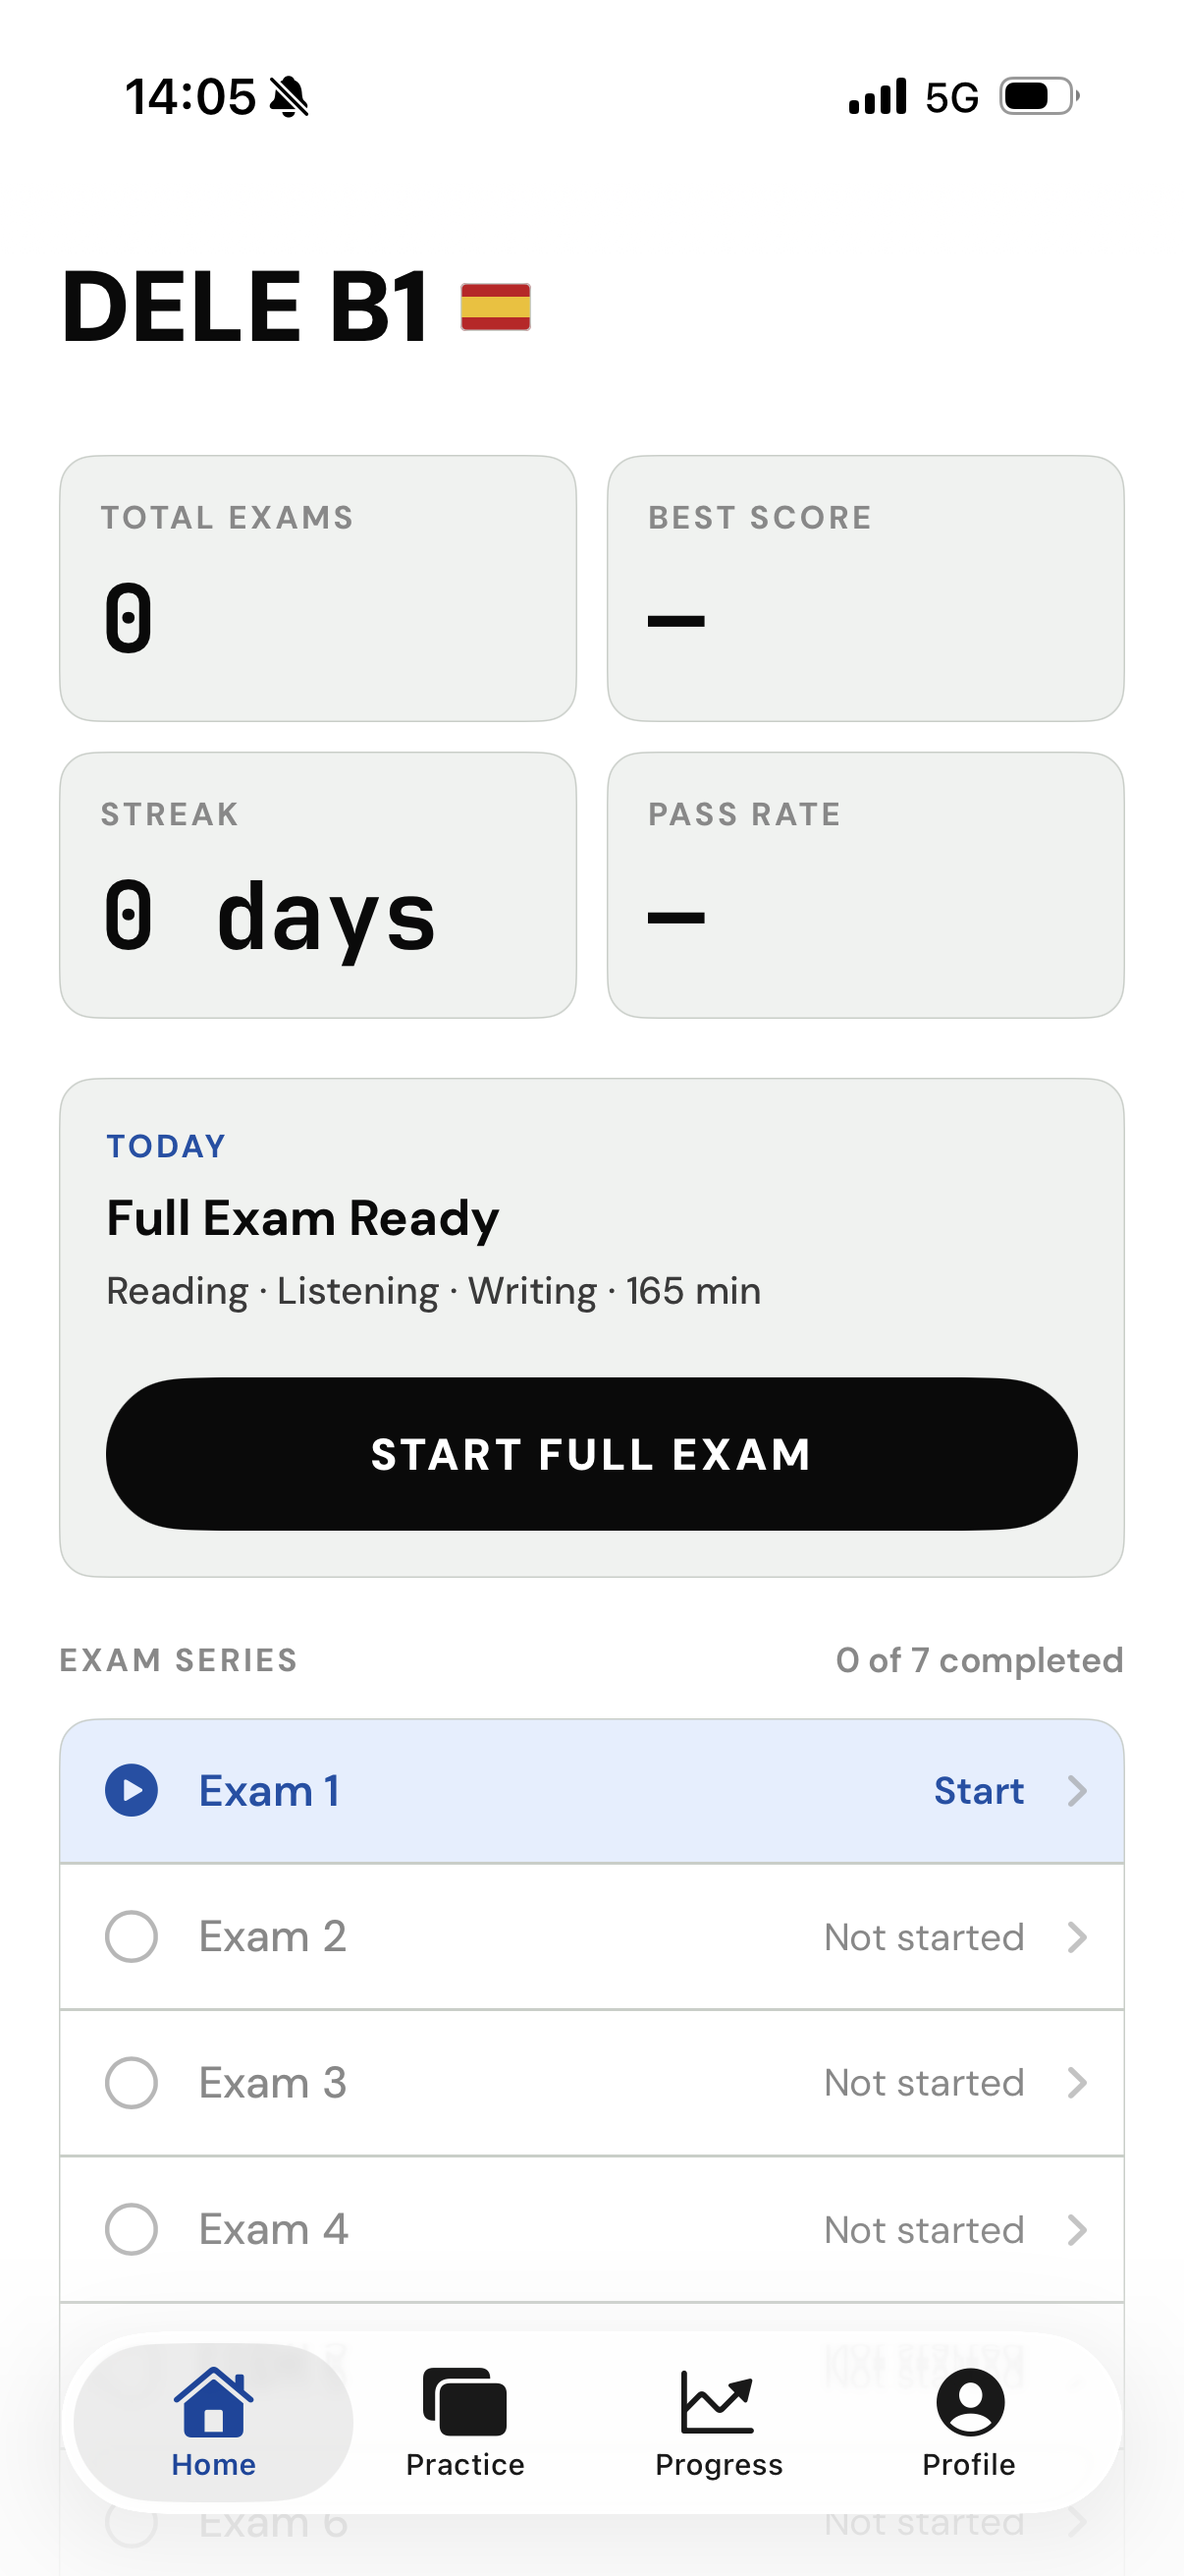
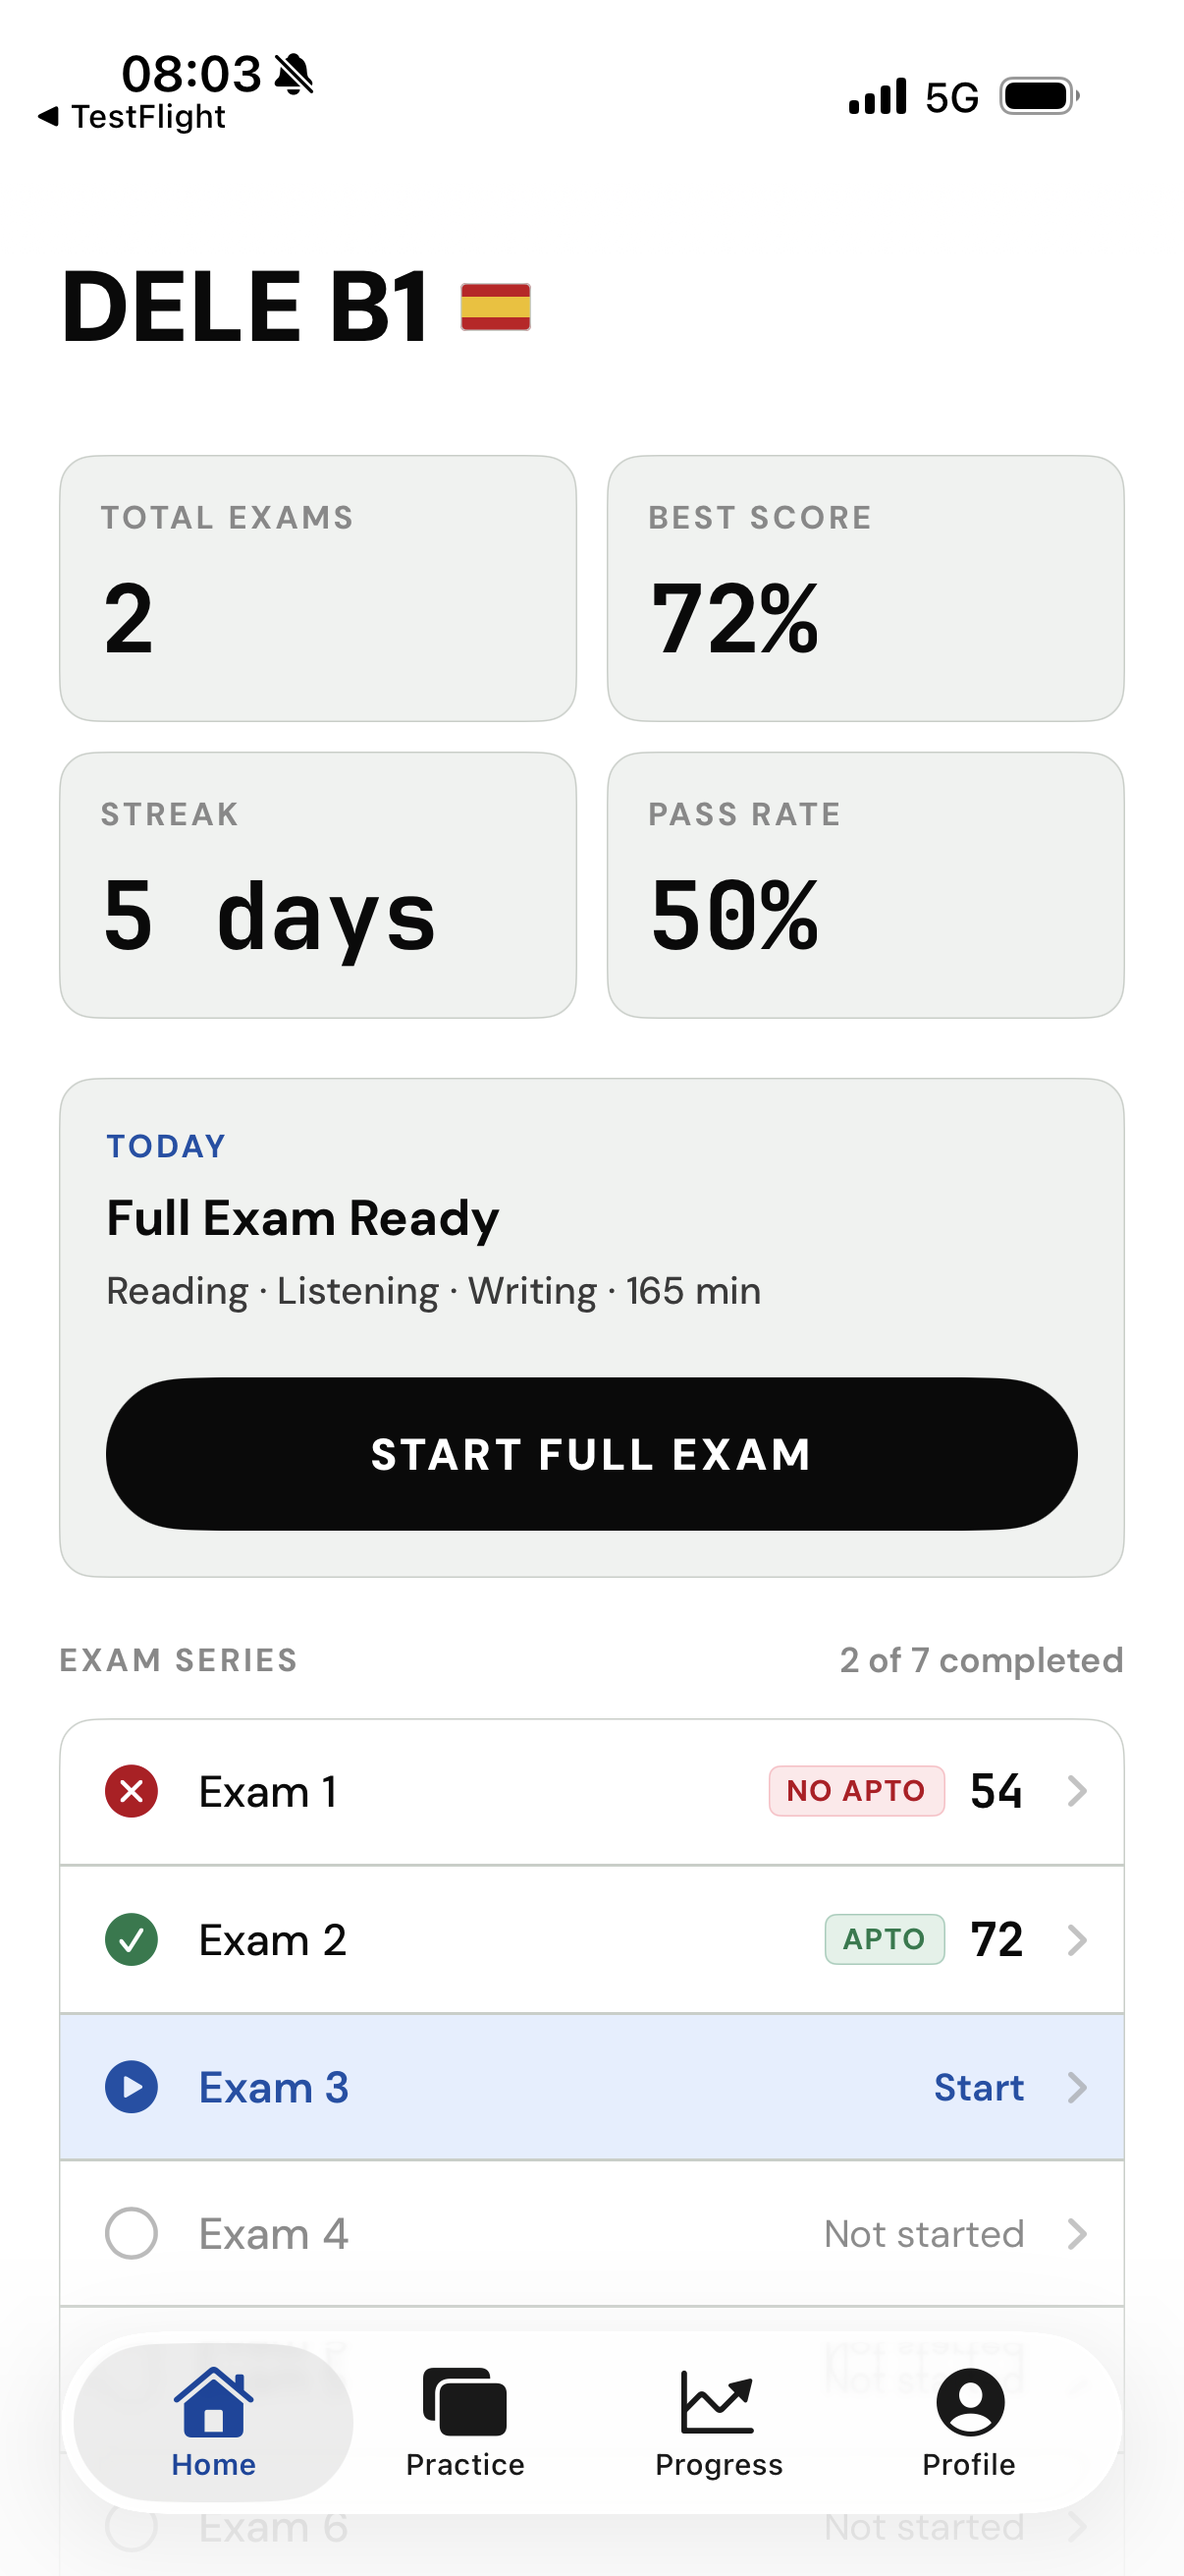
Update screenshots: replace first with homepage, add progress screen

diff --git a/index.html b/index.html
@@ -70,6 +70,7 @@
     <section class="screenshots" aria-label="Capturas de la app">
       <div class="screenshots-scroll">
         <img src="/screenshots/screenshot-1.png" alt="Pantalla principal de DELE B1 Practice" loading="lazy" />
+        <img src="/screenshots/screenshot-4.png" alt="Progreso de estudio DELE B1" loading="lazy" />
         <img src="/screenshots/screenshot-2.png" alt="Examen de práctica DELE B1" loading="lazy" />
         <img src="/screenshots/screenshot-3.png" alt="Resultados del examen DELE B1" loading="lazy" />
       </div>

diff --git a/en/index.html b/en/index.html
@@ -57,6 +57,7 @@
     <section class="screenshots" aria-label="App screenshots">
       <div class="screenshots-scroll">
         <img src="/screenshots/screenshot-1.png" alt="DELE B1 Practice main screen" loading="lazy" />
+        <img src="/screenshots/screenshot-4.png" alt="DELE B1 study progress" loading="lazy" />
         <img src="/screenshots/screenshot-2.png" alt="DELE B1 practice exam" loading="lazy" />
         <img src="/screenshots/screenshot-3.png" alt="DELE B1 exam results" loading="lazy" />
       </div>
